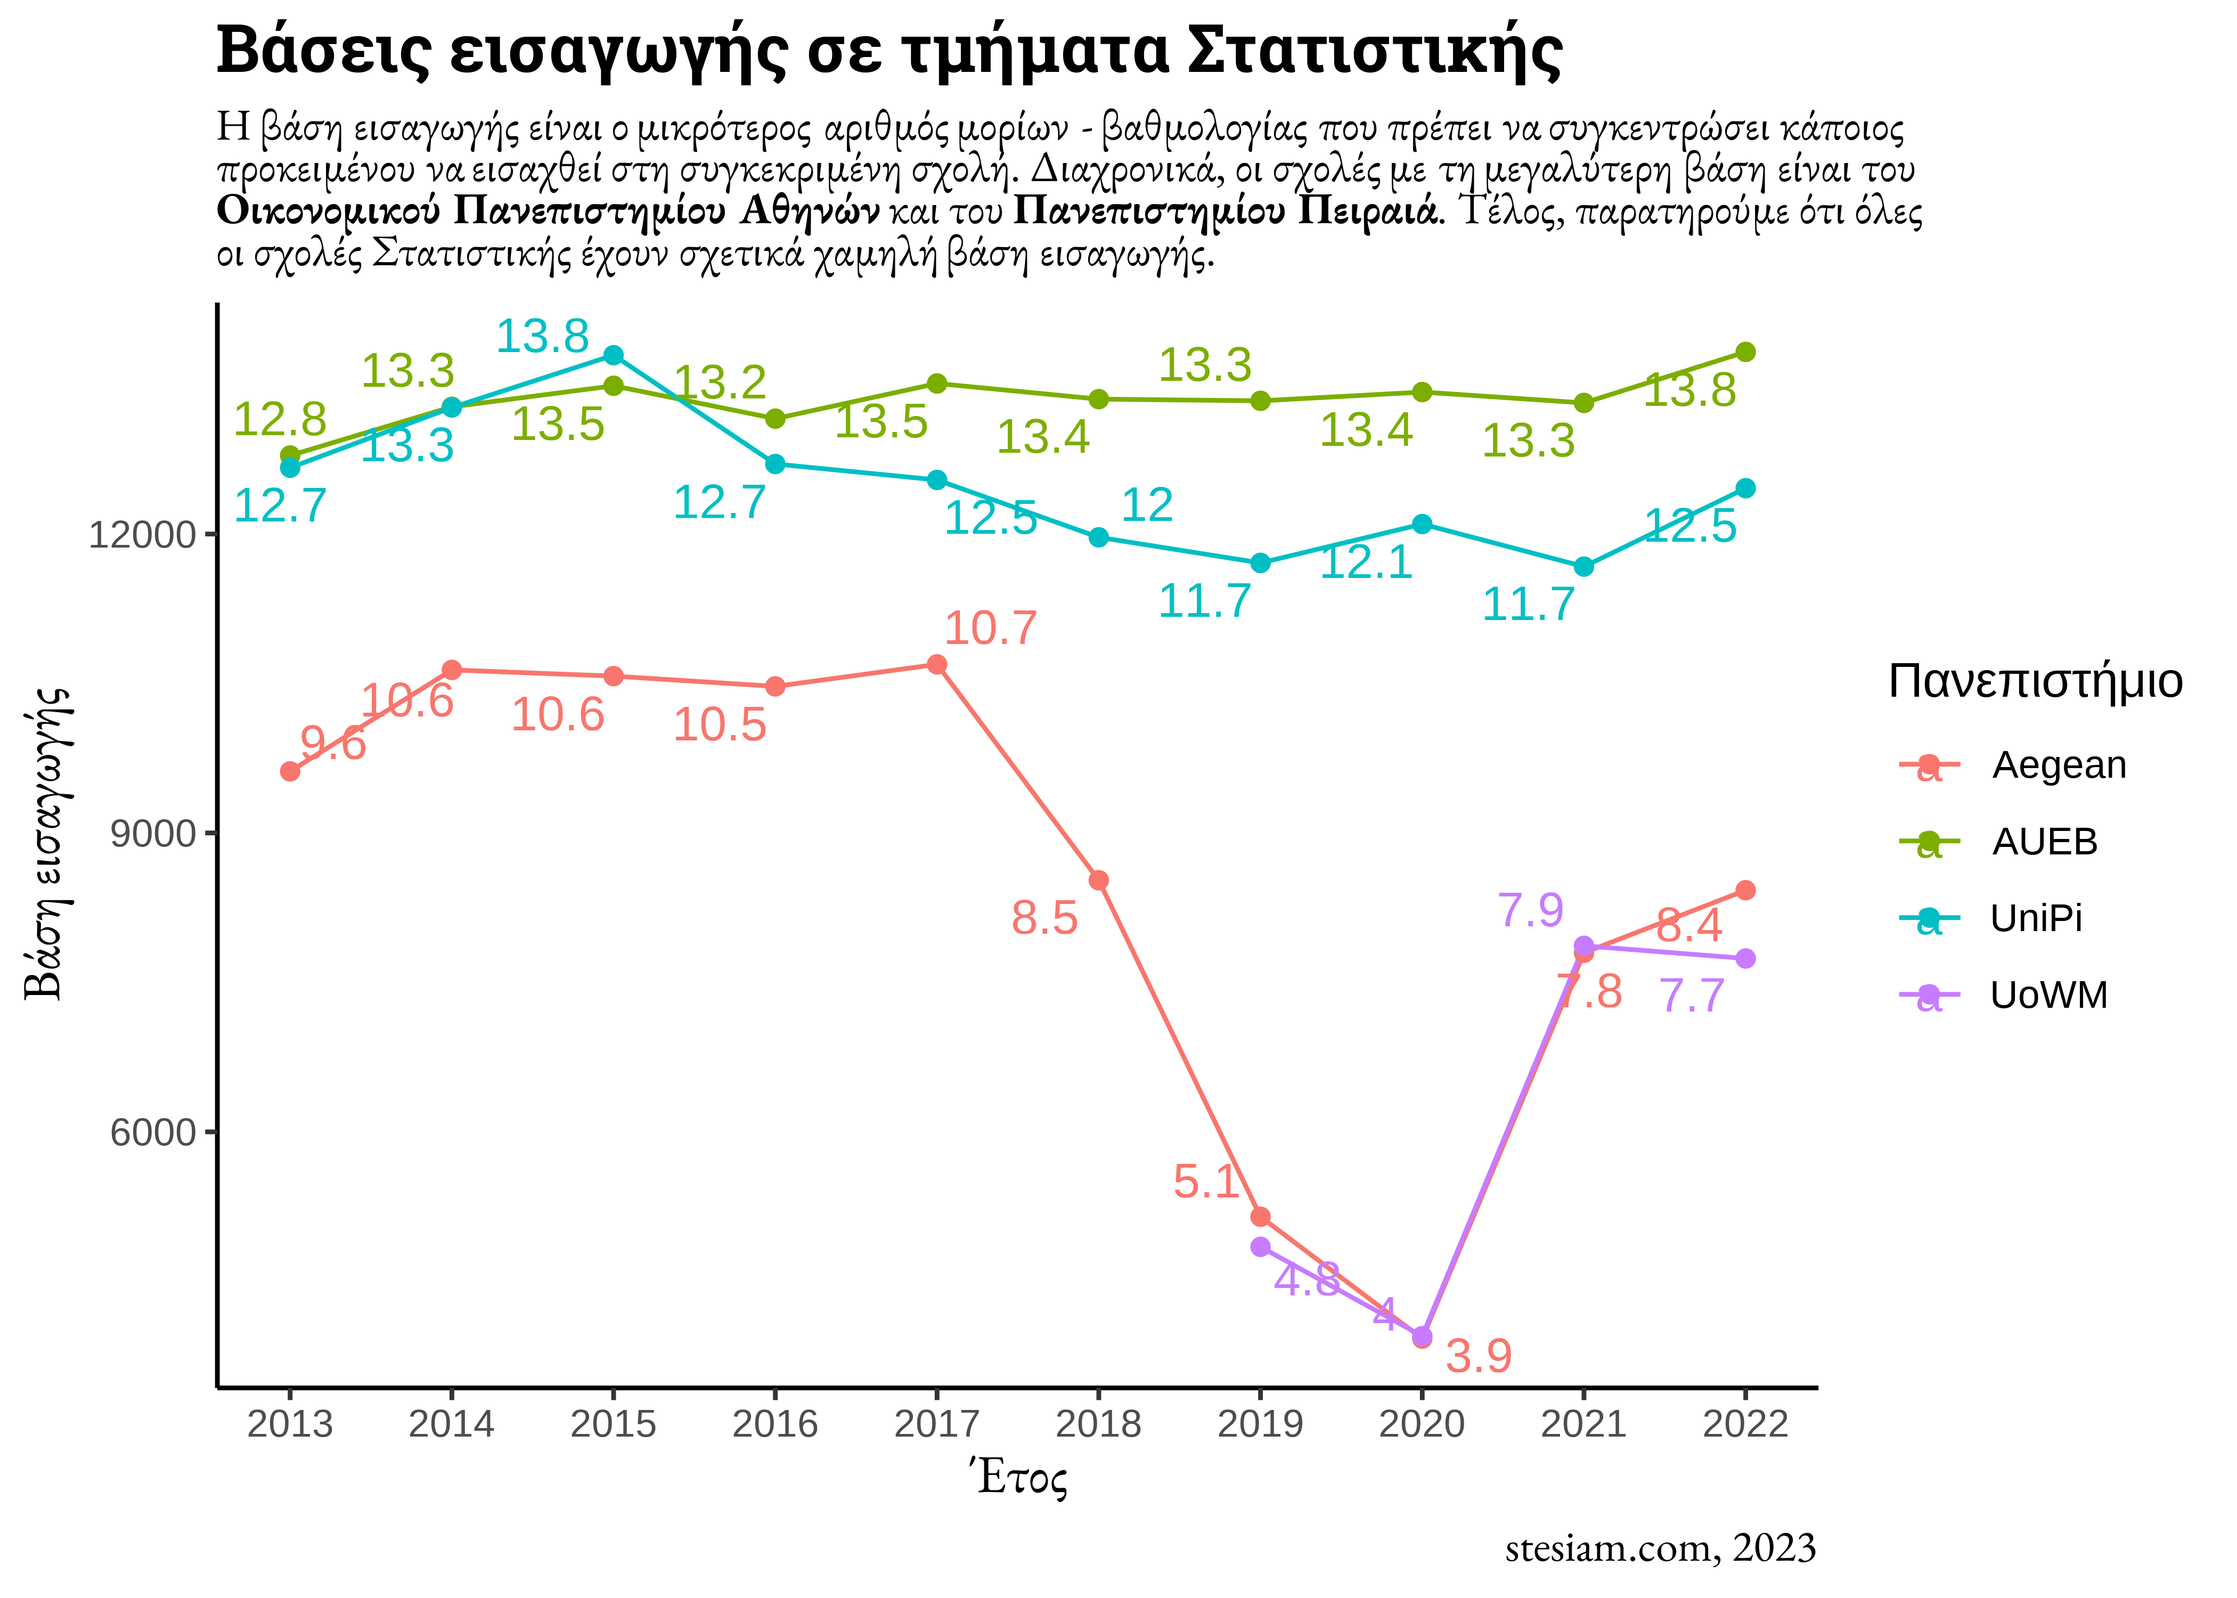
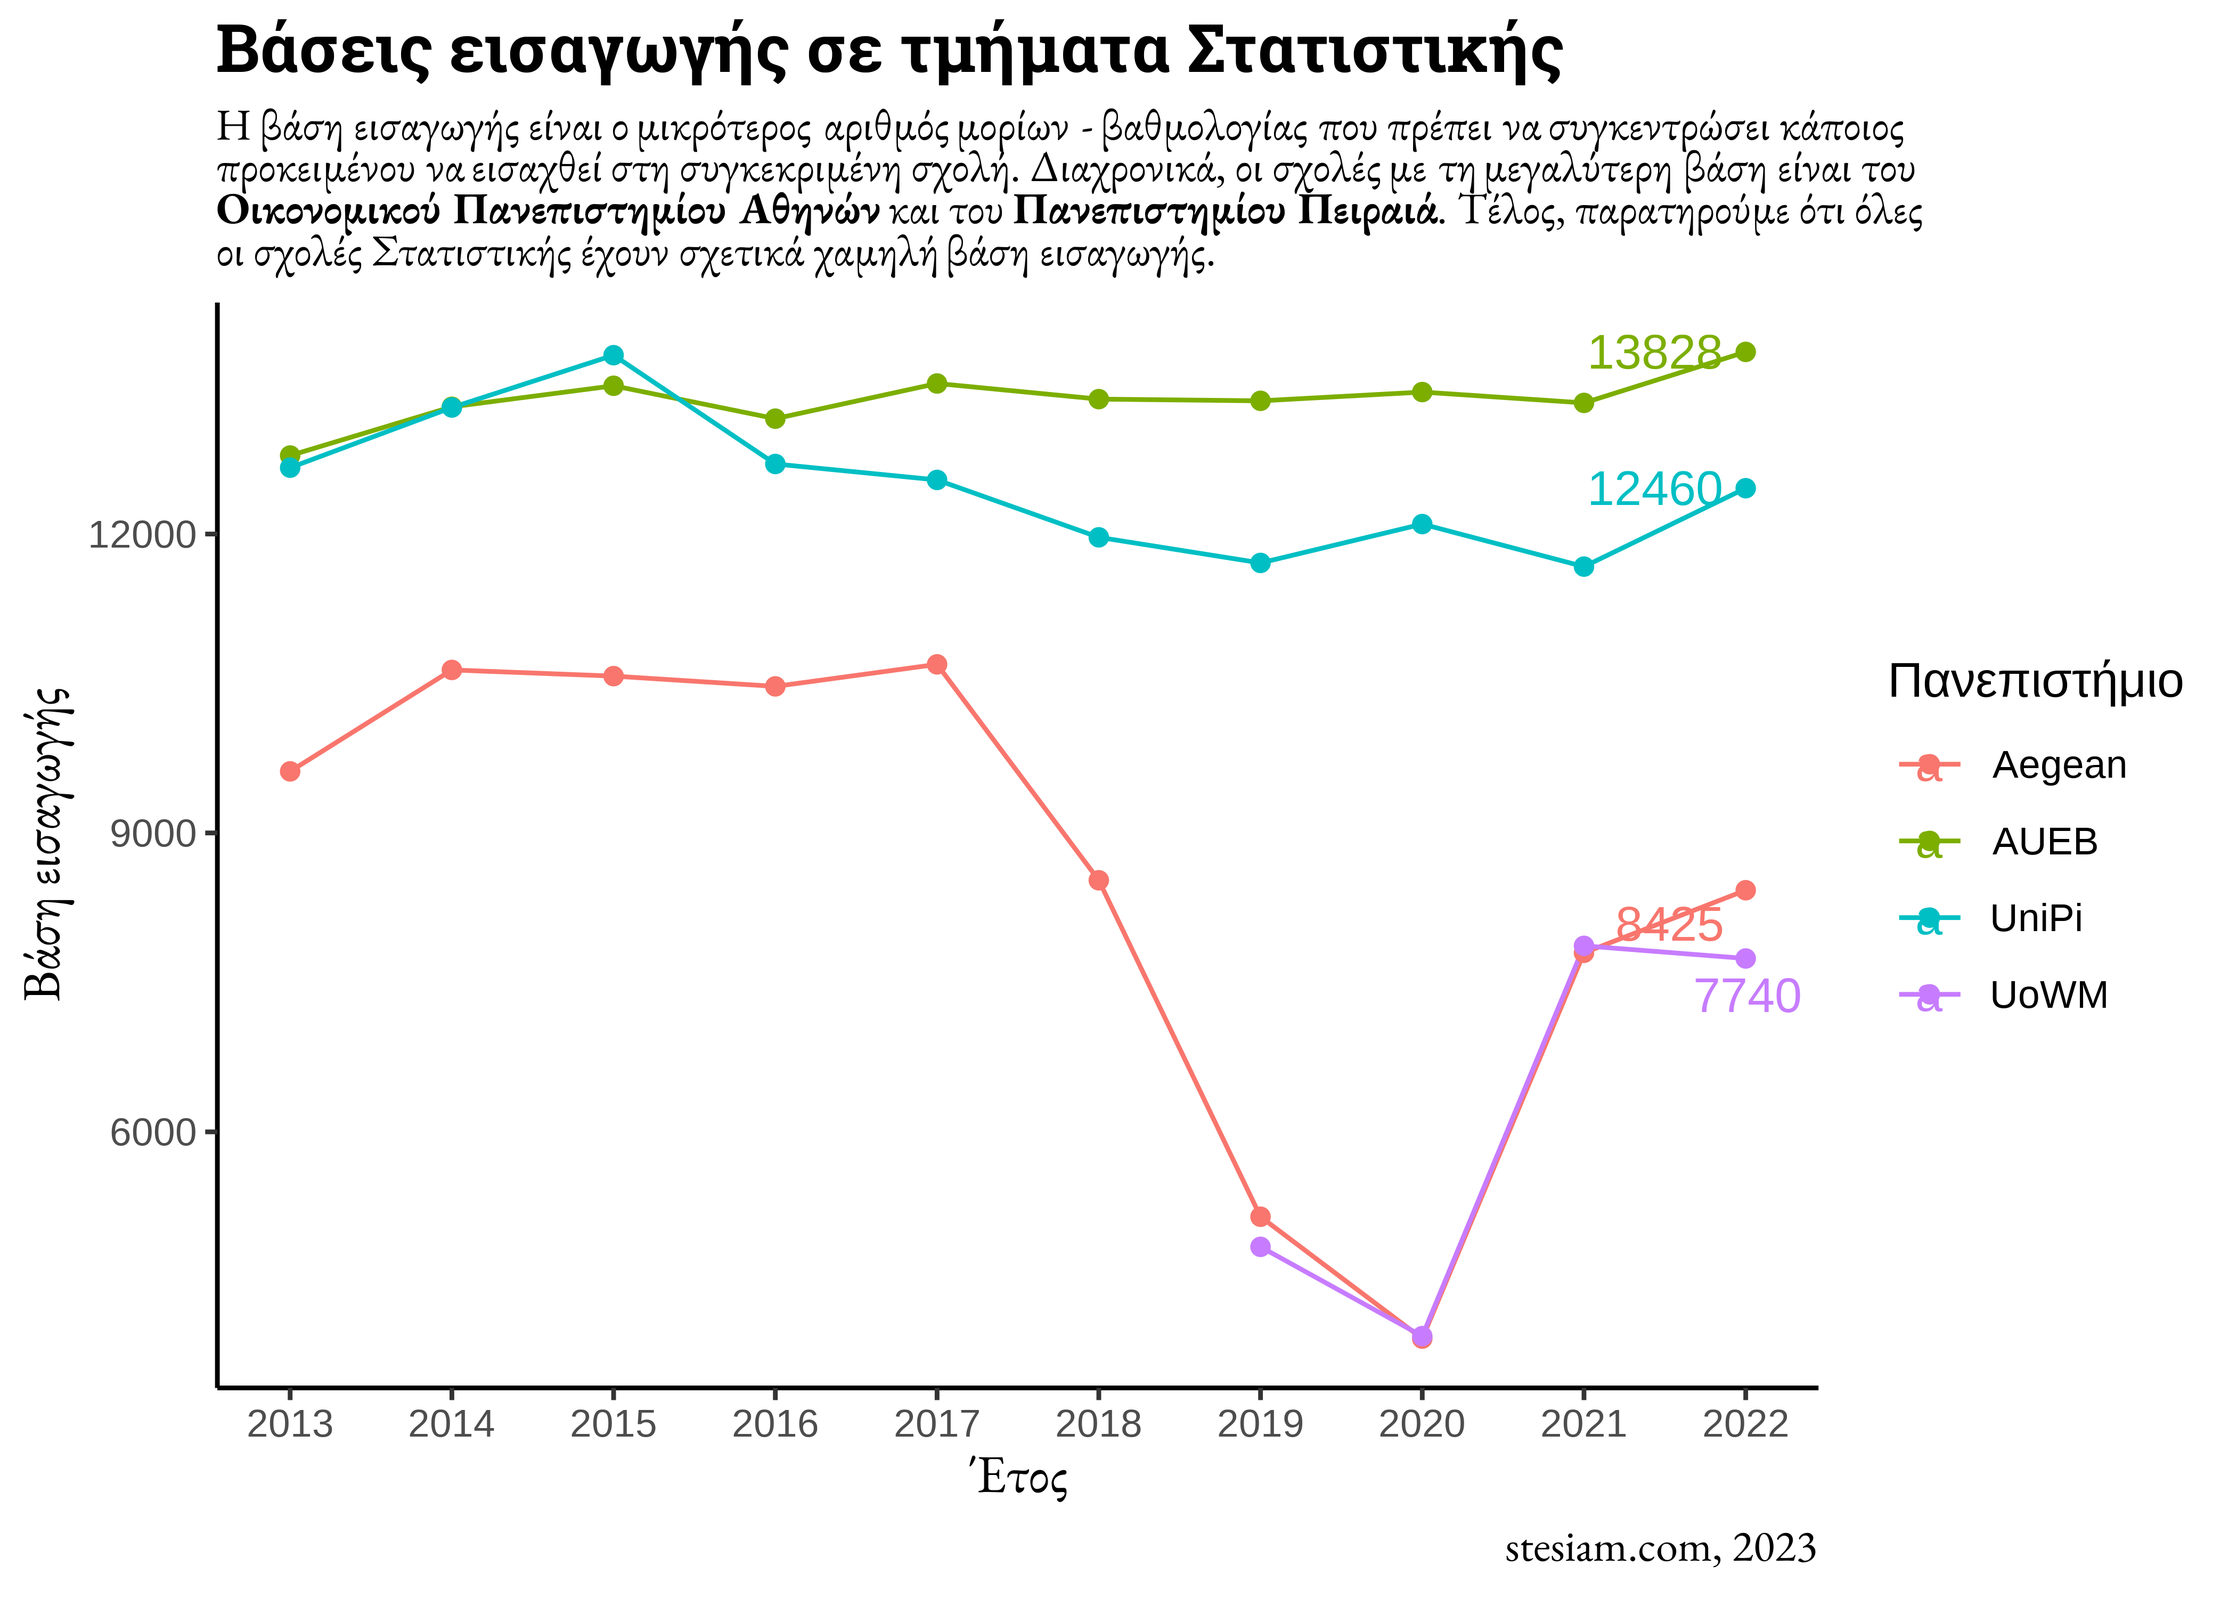
Edit article: modify observation labels on plots in order to include only the most recent value

diff --git a/docs/greek/2023-06-20-Studies-in-Statistics-Greek/2023-06-20-Studies-in-Statistics-Greek.html b/docs/greek/2023-06-20-Studies-in-Statistics-Greek/2023-06-20-Studies-in-Statistics-Greek.html
@@ -278,7 +278,7 @@ div.csl-indent {
 <div class="sourceCode" id="cb2"><pre class="downlit sourceCode r code-with-copy"><code class="sourceCode R"><span><span class="fu">ggplot2</span><span class="fu">::</span><span class="fu"><a href="https://ggplot2.tidyverse.org/reference/ggplot.html">ggplot</a></span><span class="op">(</span>data <span class="op">=</span> <span class="va">tmimata_statistikis</span>, <span class="fu">aes</span><span class="op">(</span>x <span class="op">=</span> <span class="va">Year</span>, y <span class="op">=</span> <span class="va">Vasi</span>, color<span class="op">=</span> <span class="va">University</span><span class="op">)</span><span class="op">)</span> <span class="op">+</span></span>
 <span>  <span class="fu">geom_line</span><span class="op">(</span><span class="op">)</span> <span class="op">+</span></span>
 <span>  <span class="fu">geom_point</span><span class="op">(</span><span class="op">)</span> <span class="op">+</span></span>
-<span>  <span class="fu">geom_text_repel</span><span class="op">(</span><span class="fu">aes</span><span class="op">(</span>x <span class="op">=</span> <span class="va">Year</span>, y <span class="op">=</span> <span class="va">Vasi</span>, label <span class="op">=</span> <span class="fu"><a href="https://rdrr.io/r/base/Round.html">round</a></span><span class="op">(</span><span class="va">Vasi</span><span class="op">/</span><span class="fl">1000</span>, digits <span class="op">=</span> <span class="fl">1</span><span class="op">)</span><span class="op">)</span><span class="op">)</span> <span class="op">+</span></span>
+<span>  <span class="fu">geom_text_repel</span><span class="op">(</span>data <span class="op">=</span> <span class="va">tmimata_statistikis</span> <span class="op">%&gt;%</span> <span class="fu">group_by</span><span class="op">(</span><span class="va">University</span><span class="op">)</span> <span class="op">%&gt;%</span> <span class="fu"><a href="https://rdrr.io/r/stats/filter.html">filter</a></span><span class="op">(</span><span class="va">Year</span> <span class="op">==</span> <span class="fu"><a href="https://rdrr.io/r/base/Extremes.html">max</a></span><span class="op">(</span><span class="va">Year</span><span class="op">)</span><span class="op">)</span>, <span class="fu">aes</span><span class="op">(</span>x <span class="op">=</span> <span class="va">Year</span>, y <span class="op">=</span> <span class="va">Vasi</span>, label <span class="op">=</span> <span class="va">Vasi</span><span class="op">)</span><span class="op">)</span> <span class="op">+</span></span>
 <span>  <span class="fu">scale_x_continuous</span><span class="op">(</span><span class="st">"Έτος"</span>, breaks <span class="op">=</span> <span class="fl">2013</span><span class="op">:</span><span class="fl">2022</span><span class="op">)</span> <span class="op">+</span></span>
 <span>  <span class="fu">labs</span><span class="op">(</span></span>
 <span>    title <span class="op">=</span> <span class="st">"&lt;b&gt;Βάσεις εισαγωγής σε τμήματα Στατιστικής&lt;/b&gt;"</span>,</span>
@@ -305,6 +305,7 @@ div.csl-indent {
 <div class="sourceCode" id="cb3"><pre class="downlit sourceCode r code-with-copy"><code class="sourceCode R"><span><span class="fu">ggplot2</span><span class="fu">::</span><span class="fu"><a href="https://ggplot2.tidyverse.org/reference/ggplot.html">ggplot</a></span><span class="op">(</span>data <span class="op">=</span> <span class="va">tmimata_statistikis</span>, <span class="fu">aes</span><span class="op">(</span>x <span class="op">=</span> <span class="va">Year</span>, y <span class="op">=</span> <span class="va">Theseis</span>, color<span class="op">=</span> <span class="va">University</span><span class="op">)</span><span class="op">)</span> <span class="op">+</span></span>
 <span>  <span class="fu">geom_line</span><span class="op">(</span><span class="op">)</span> <span class="op">+</span></span>
 <span>  <span class="fu">geom_point</span><span class="op">(</span><span class="op">)</span> <span class="op">+</span></span>
+<span>  <span class="fu">geom_text</span><span class="op">(</span>data <span class="op">=</span> <span class="va">tmimata_statistikis</span> <span class="op">%&gt;%</span> <span class="fu">group_by</span><span class="op">(</span><span class="va">University</span><span class="op">)</span> <span class="op">%&gt;%</span> <span class="fu"><a href="https://rdrr.io/r/stats/filter.html">filter</a></span><span class="op">(</span><span class="va">Year</span> <span class="op">==</span> <span class="fu"><a href="https://rdrr.io/r/base/Extremes.html">max</a></span><span class="op">(</span><span class="va">Year</span><span class="op">)</span><span class="op">)</span>, <span class="fu">aes</span><span class="op">(</span>x <span class="op">=</span> <span class="va">Year</span>, y <span class="op">=</span> <span class="va">Theseis</span><span class="op">+</span><span class="fl">7</span>, label <span class="op">=</span> <span class="va">Theseis</span><span class="op">)</span><span class="op">)</span> <span class="op">+</span></span>
 <span>  <span class="fu">scale_x_continuous</span><span class="op">(</span><span class="st">"Έτος"</span>, breaks <span class="op">=</span> <span class="fl">2013</span><span class="op">:</span><span class="fl">2022</span><span class="op">)</span> <span class="op">+</span></span>
 <span>  <span class="fu">labs</span><span class="op">(</span></span>
 <span>    title <span class="op">=</span> <span class="st">"&lt;b&gt;Θέσεις εισαγωγής σε τμήματα Στατιστικής (ΓΛ90)&lt;/b&gt;"</span>,</span>
@@ -433,8 +434,8 @@ div.csl-indent {
 <span>  <span class="op">)</span><span class="op">)</span></span></code><button title="Copy to Clipboard" class="code-copy-button"><i class="bi"></i></button></pre></div>
 <div class="cell-output-display">
 
-<div class="reactable html-widget html-fill-item-overflow-hidden html-fill-item" id="htmlwidget-4780bc2e81878da36812" style="width:auto;height:auto;"></div>
-<script type="application/json" data-for="htmlwidget-4780bc2e81878da36812">{"x":{"tag":{"name":"Reactable","attribs":{"data":{"Uni":["AUEB","UniPi2011","UniPi2017","Aegean","UoWM"],"Diloseis":["Ναι","Όχι","Όχι","Όχι","Όχι"],"Alysides":["Ναι","Όχι","Όχι","Όχι","Όχι"],"Ptyxiaki":["Προαιρετική","Όχι","Όχι","Προαιρετική","Όχι"],"Vathmos":["Αριθμητικός μέσος","Σταθμικός μέσος","Αριθμητικός μέσος","Σταθμικός μέσος","Αριθμητικός μέσος"]},"columns":[{"id":"Uni","name":"Τμήμα","type":"character"},{"id":"Diloseis","name":"Όριο δηλώσεων","type":"character","style":[{"color":"#e00000","fontWeight":"bold"},{"color":"#008000","fontWeight":"bold"},{"color":"#008000","fontWeight":"bold"},{"color":"#008000","fontWeight":"bold"},{"color":"#008000","fontWeight":"bold"}]},{"id":"Alysides","name":"Αλυσίδες μαθημάτων","type":"character","style":[{"color":"#e00000","fontWeight":"bold"},{"color":"#008000","fontWeight":"bold"},{"color":"#008000","fontWeight":"bold"},{"color":"#008000","fontWeight":"bold"},{"color":"#008000","fontWeight":"bold"}]},{"id":"Ptyxiaki","name":"Πτυχιακή","type":"character","style":[{"color":"#e8c010","fontWeight":"bold"},{"color":"#008000","fontWeight":"bold"},{"color":"#008000","fontWeight":"bold"},{"color":"#e8c010","fontWeight":"bold"},{"color":"#008000","fontWeight":"bold"}]},{"id":"Vathmos","name":"Υπολογισμός βαθμού","type":"character"}],"dataKey":"76f0f6860dc750f4dd9b4d3d67da5184"},"children":[]},"class":"reactR_markup"},"evals":[],"jsHooks":[]}</script>
+<div class="reactable html-widget html-fill-item-overflow-hidden html-fill-item" id="htmlwidget-65545fd1ed33abf70662" style="width:auto;height:auto;"></div>
+<script type="application/json" data-for="htmlwidget-65545fd1ed33abf70662">{"x":{"tag":{"name":"Reactable","attribs":{"data":{"Uni":["AUEB","UniPi2011","UniPi2017","Aegean","UoWM"],"Diloseis":["Ναι","Όχι","Όχι","Όχι","Όχι"],"Alysides":["Ναι","Όχι","Όχι","Όχι","Όχι"],"Ptyxiaki":["Προαιρετική","Όχι","Όχι","Προαιρετική","Όχι"],"Vathmos":["Αριθμητικός μέσος","Σταθμικός μέσος","Αριθμητικός μέσος","Σταθμικός μέσος","Αριθμητικός μέσος"]},"columns":[{"id":"Uni","name":"Τμήμα","type":"character"},{"id":"Diloseis","name":"Όριο δηλώσεων","type":"character","style":[{"color":"#e00000","fontWeight":"bold"},{"color":"#008000","fontWeight":"bold"},{"color":"#008000","fontWeight":"bold"},{"color":"#008000","fontWeight":"bold"},{"color":"#008000","fontWeight":"bold"}]},{"id":"Alysides","name":"Αλυσίδες μαθημάτων","type":"character","style":[{"color":"#e00000","fontWeight":"bold"},{"color":"#008000","fontWeight":"bold"},{"color":"#008000","fontWeight":"bold"},{"color":"#008000","fontWeight":"bold"},{"color":"#008000","fontWeight":"bold"}]},{"id":"Ptyxiaki","name":"Πτυχιακή","type":"character","style":[{"color":"#e8c010","fontWeight":"bold"},{"color":"#008000","fontWeight":"bold"},{"color":"#008000","fontWeight":"bold"},{"color":"#e8c010","fontWeight":"bold"},{"color":"#008000","fontWeight":"bold"}]},{"id":"Vathmos","name":"Υπολογισμός βαθμού","type":"character"}],"dataKey":"76f0f6860dc750f4dd9b4d3d67da5184"},"children":[]},"class":"reactR_markup"},"evals":[],"jsHooks":[]}</script>
 </div>
 </div>
 </section><section id="χάρτης" class="level2"><h2 class="anchored" data-anchor-id="χάρτης">Χάρτης</h2>
@@ -469,6 +470,7 @@ div.csl-indent {
 <span>     plot.subtitle <span class="op">=</span> <span class="fu">element_markdown</span><span class="op">(</span>family <span class="op">=</span> <span class="st">"mont"</span>, size <span class="op">=</span> <span class="fl">10</span>, lineheight <span class="op">=</span> <span class="fl">0.7</span><span class="op">)</span>,</span>
 <span>     plot.caption <span class="op">=</span> <span class="fu">element_markdown</span><span class="op">(</span>family <span class="op">=</span> <span class="st">"mont"</span>, size <span class="op">=</span> <span class="fl">10</span><span class="op">)</span>,</span>
 <span>     axis.title <span class="op">=</span> <span class="fu">element_markdown</span><span class="op">(</span>family <span class="op">=</span> <span class="st">"mont"</span>, size <span class="op">=</span> <span class="fl">12</span><span class="op">)</span>,</span>
+<span>     text <span class="op">=</span> <span class="fu">element_text</span><span class="op">(</span>family <span class="op">=</span> <span class="st">"mont"</span>, size <span class="op">=</span> <span class="fl">10</span><span class="op">)</span></span>
 <span><span class="op">)</span></span></code><button title="Copy to Clipboard" class="code-copy-button"><i class="bi"></i></button></pre></div>
 <div class="cell-output-display">
 <p><img src="2023-06-20-Studies-in-Statistics-Greek_files/figure-html/map_statistics_deps-1.png" class="img-fluid" width="2100"></p>

diff --git a/docs/greek.html b/docs/greek.html
@@ -257,7 +257,7 @@ ul.task-list li input[type="checkbox"] {
     </div>
 </div>
 <div class="list quarto-listing-default">
-<div class="quarto-post image-right" data-index="0" data-categories="Σπουδές" data-listing-date-sort="1687208400000" data-listing-file-modified-sort="1687303286303" data-listing-date-modified-sort="NaN" data-listing-reading-time-sort="12">
+<div class="quarto-post image-right" data-index="0" data-categories="Σπουδές" data-listing-date-sort="1687208400000" data-listing-file-modified-sort="1687369312767" data-listing-date-modified-sort="NaN" data-listing-reading-time-sort="12">
 <div class="thumbnail">
 <p><a href="./greek/2023-06-20-Studies-in-Statistics-Greek/2023-06-20-Studies-in-Statistics-Greek.html"> <img src="greek/2023-06-20-Studies-in-Statistics-Greek/2023-06-20-Studies-in-Statistics-Greek_files/figure-html/vaseis_eisagogis_plot-1.png" /> </a></p>
 </div>
